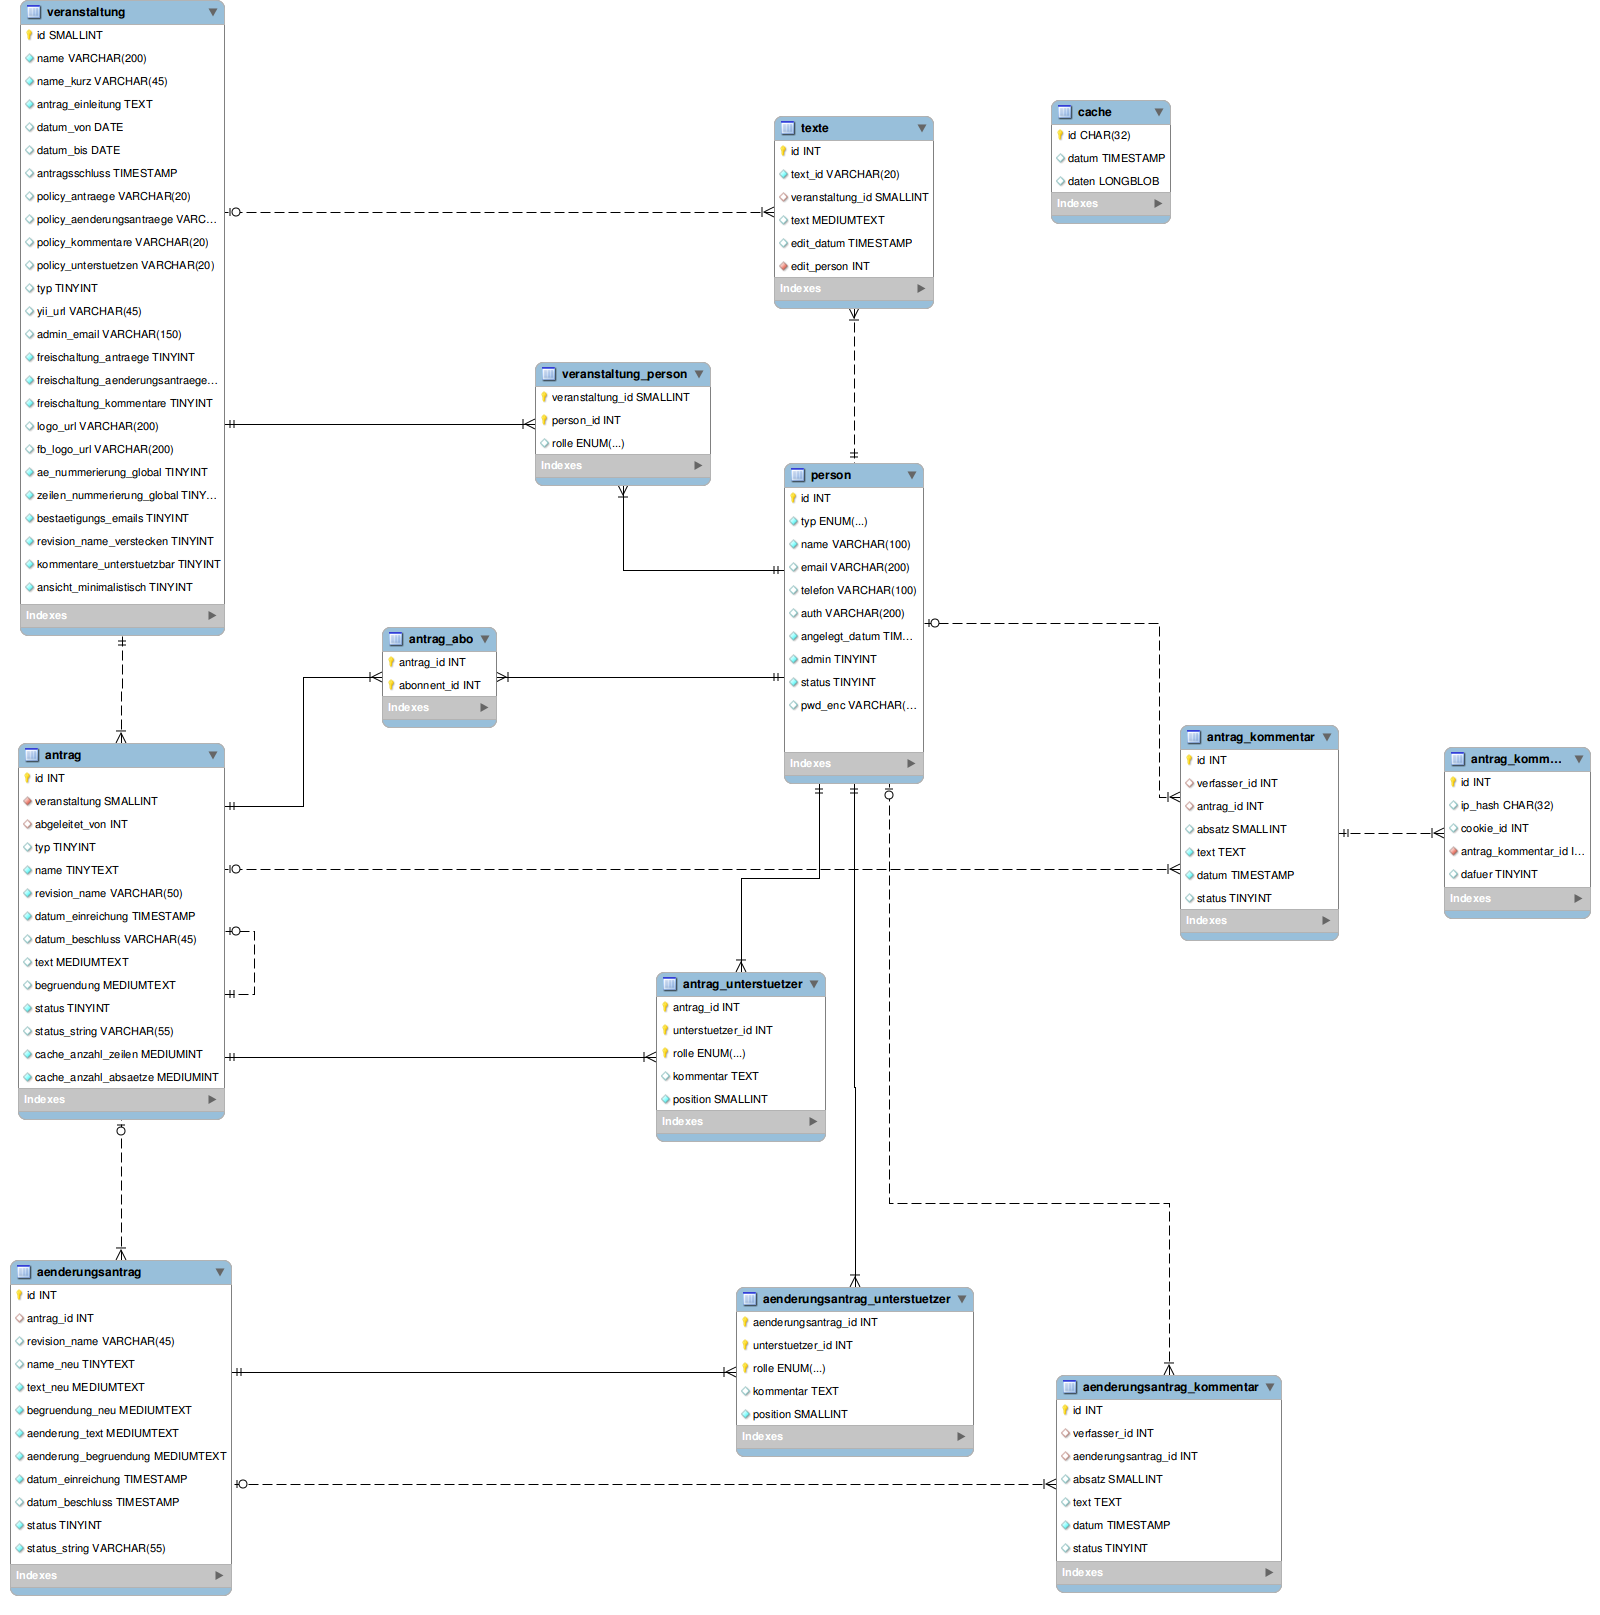
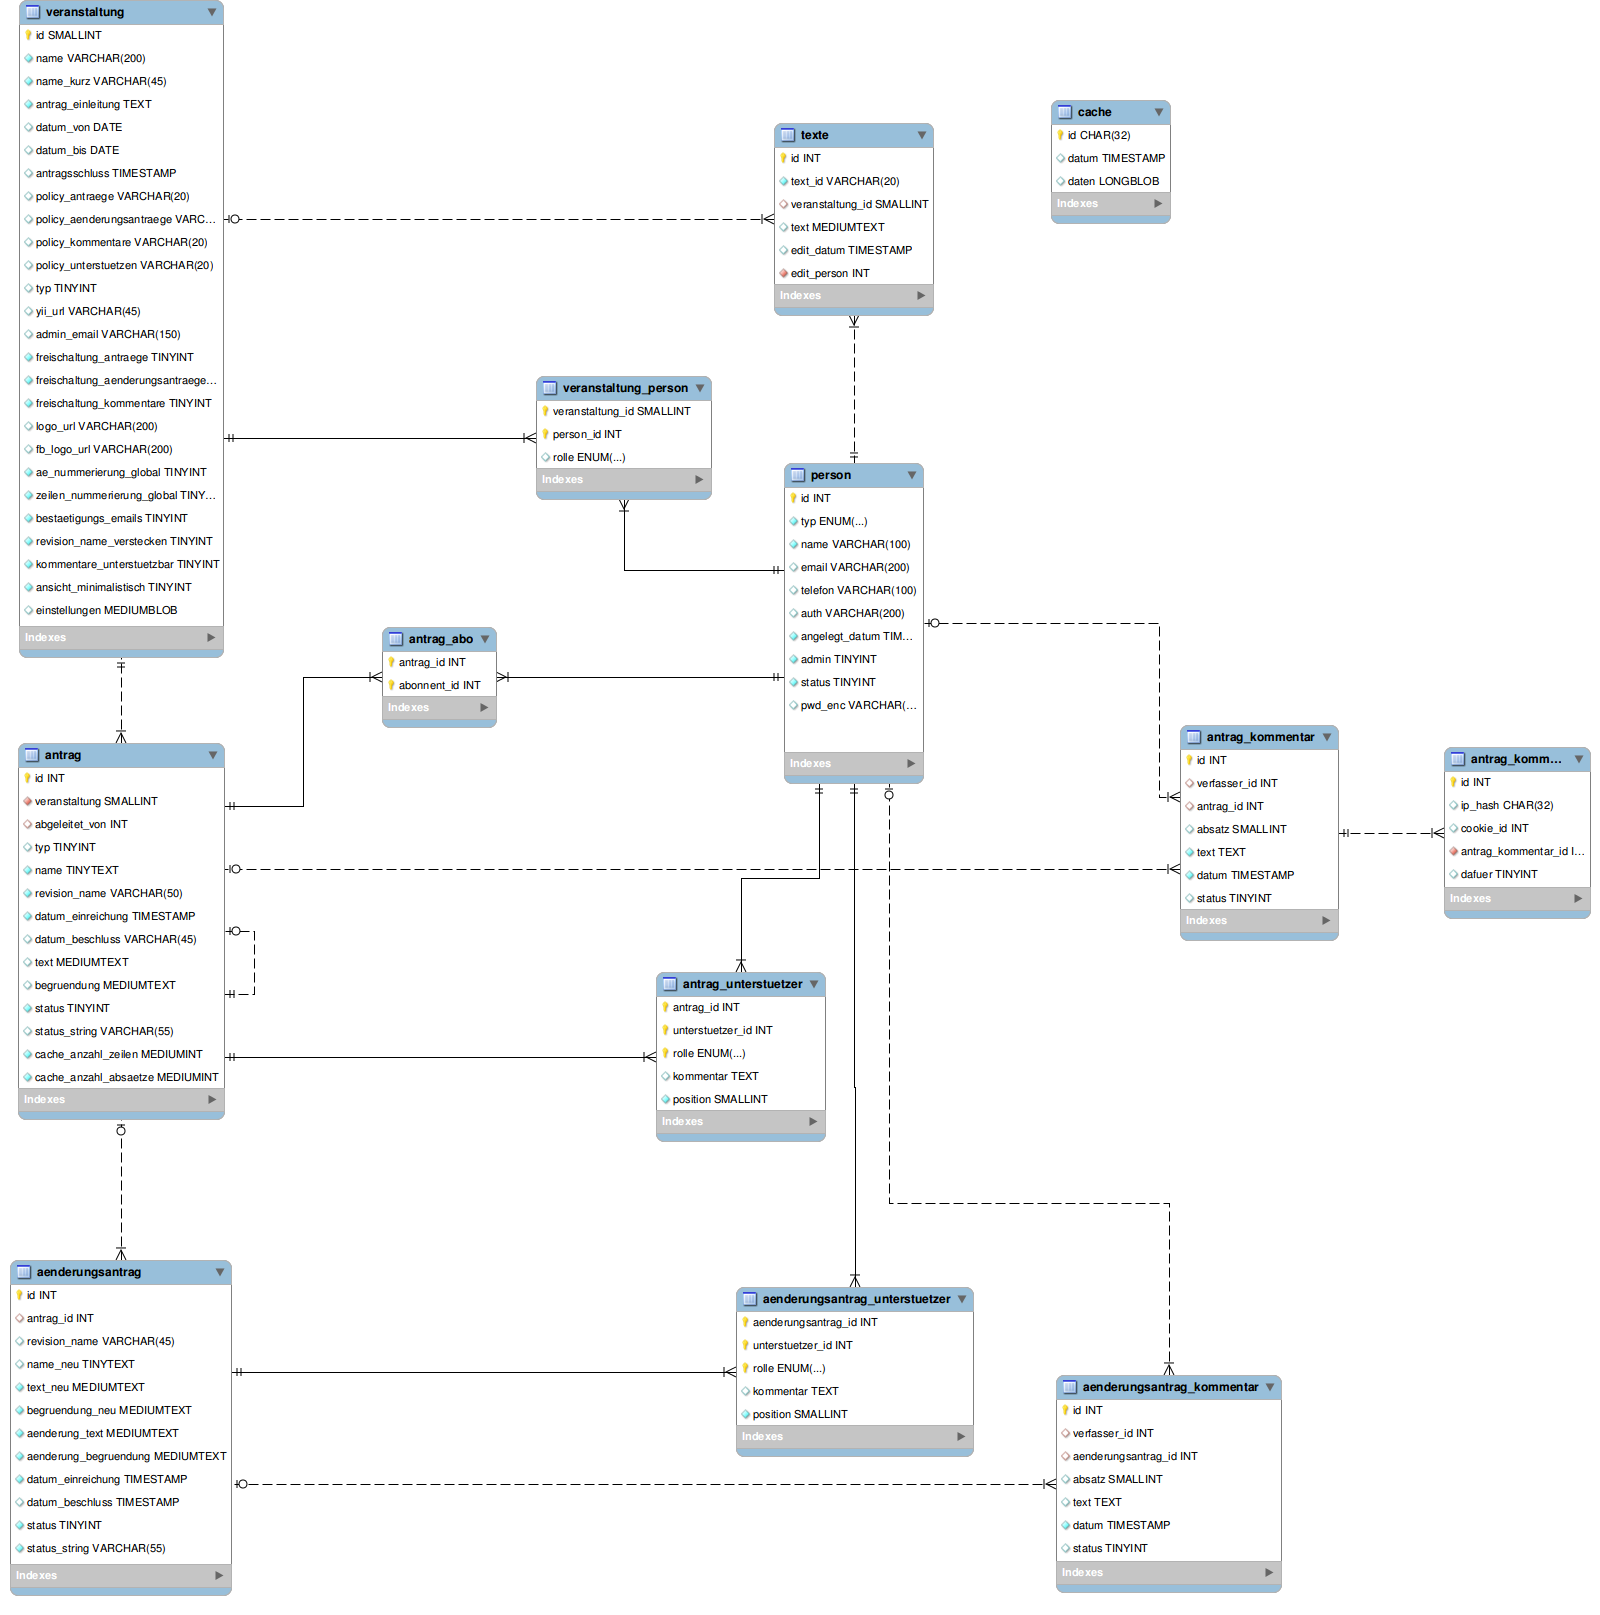
Framework für ein flexibleres Einstellungssystem

Changed region(s): [[0.0, 0.0, 0.1562, 0.4334], [0.4688, 0.0619, 0.5938, 0.2167], [0.3125, 0.2167, 0.4688, 0.3096]]

diff --git a/protected/models/_base/BaseVeranstaltung.php b/protected/models/_base/BaseVeranstaltung.php
@@ -26,6 +26,7 @@
  * @property integer $revision_name_verstecken
  * @property integer $kommentare_unterstuetzbar
  * @property integer $ansicht_minimalistisch
+ * @property string $einstellungen
  *
  * @property Antrag[] $antraege
  * @property VeranstaltungPerson[] $veranstaltung_personen
@@ -57,7 +58,7 @@ abstract class BaseVeranstaltung extends GxActiveRecord
 	public function rules()
 	{
 		return array(
-			array('name, freischaltung_antraege, yii_url, freischaltung_aenderungsantraege, revision_name_verstecken, kommentare_unterstuetzbar, ansicht_minimalistisch, freischaltung_kommentare, policy_antraege, policy_aenderungsantraege, policy_kommentare, policy_unterstuetzen, typ, ae_nummerierung_global, zeilen_nummerierung_global, bestaetigungs_emails', 'required'),
+			array('name, freischaltung_antraege, yii_url, freischaltung_aenderungsantraege, revision_name_verstecken, kommentare_unterstuetzbar, ansicht_minimalistisch, freischaltung_kommentare, policy_antraege, policy_aenderungsantraege, policy_kommentare, policy_unterstuetzen, typ, ae_nummerierung_global, zeilen_nummerierung_global, bestaetigungs_emails, einstellungen', 'required'),
 			array('name, logo_url, fb_logo_url', 'length', 'max' => 200),
 			array('name_kurz, yii_url', 'length', 'max' => 45),
 			array('antragsschluss, antrag_einleitung, admin_email', 'safe'),

diff --git a/protected/controllers/admin/VeranstaltungenController.php b/protected/controllers/admin/VeranstaltungenController.php
@@ -42,6 +42,10 @@ class VeranstaltungenController extends GxController
 
 		if (isset($_POST['Veranstaltung'])) {
 			$model->setAttributes($_POST['Veranstaltung'], false);
+
+			$einstellungen = $model->getEinstellungen();
+			$model->setEinstellungen($einstellungen);
+
 			$relatedData = array();
 
 			if ($model->saveWithRelated($relatedData)) {
@@ -73,6 +77,10 @@ class VeranstaltungenController extends GxController
 			$model->setAttributes($_POST['Veranstaltung']);
 			Yii::import('ext.datetimepicker.EDateTimePicker');
 			$model->antragsschluss = EDateTimePicker::parseInput($_POST["Veranstaltung"], "antragsschluss");
+
+			$einstellungen = $model->getEinstellungen();
+			$model->setEinstellungen($einstellungen);
+			
 			$relatedData           = array();
 
 			if ($model->saveWithRelated($relatedData)) {

diff --git a/protected/models/Veranstaltung.php b/protected/models/Veranstaltung.php
@@ -34,6 +34,26 @@ class Veranstaltung extends BaseVeranstaltung
 		1 => "(Wahl-)Programm",
 	);
 
+
+	/** @var null|VeranstaltungsEinstellungen */
+	private $einstellungen_object = null;
+
+	/**
+	 * @return VeranstaltungsEinstellungen
+	 */
+	public function getEinstellungen() {
+		if (!is_object($this->einstellungen_object)) $this->einstellungen_object = new VeranstaltungsEinstellungen($this->einstellungen);
+		return $this->einstellungen_object;
+	}
+
+	/**
+	 * @param VeranstaltungsEinstellungen $einstellungen
+	 */
+	public function setEinstellungen($einstellungen) {
+		$this->einstellungen_object = $einstellungen;
+		$this->einstellungen = $einstellungen->toJSON();
+	}
+
 	/** @return IPolicyAntraege */
 	public function getPolicyAntraege()
 	{
